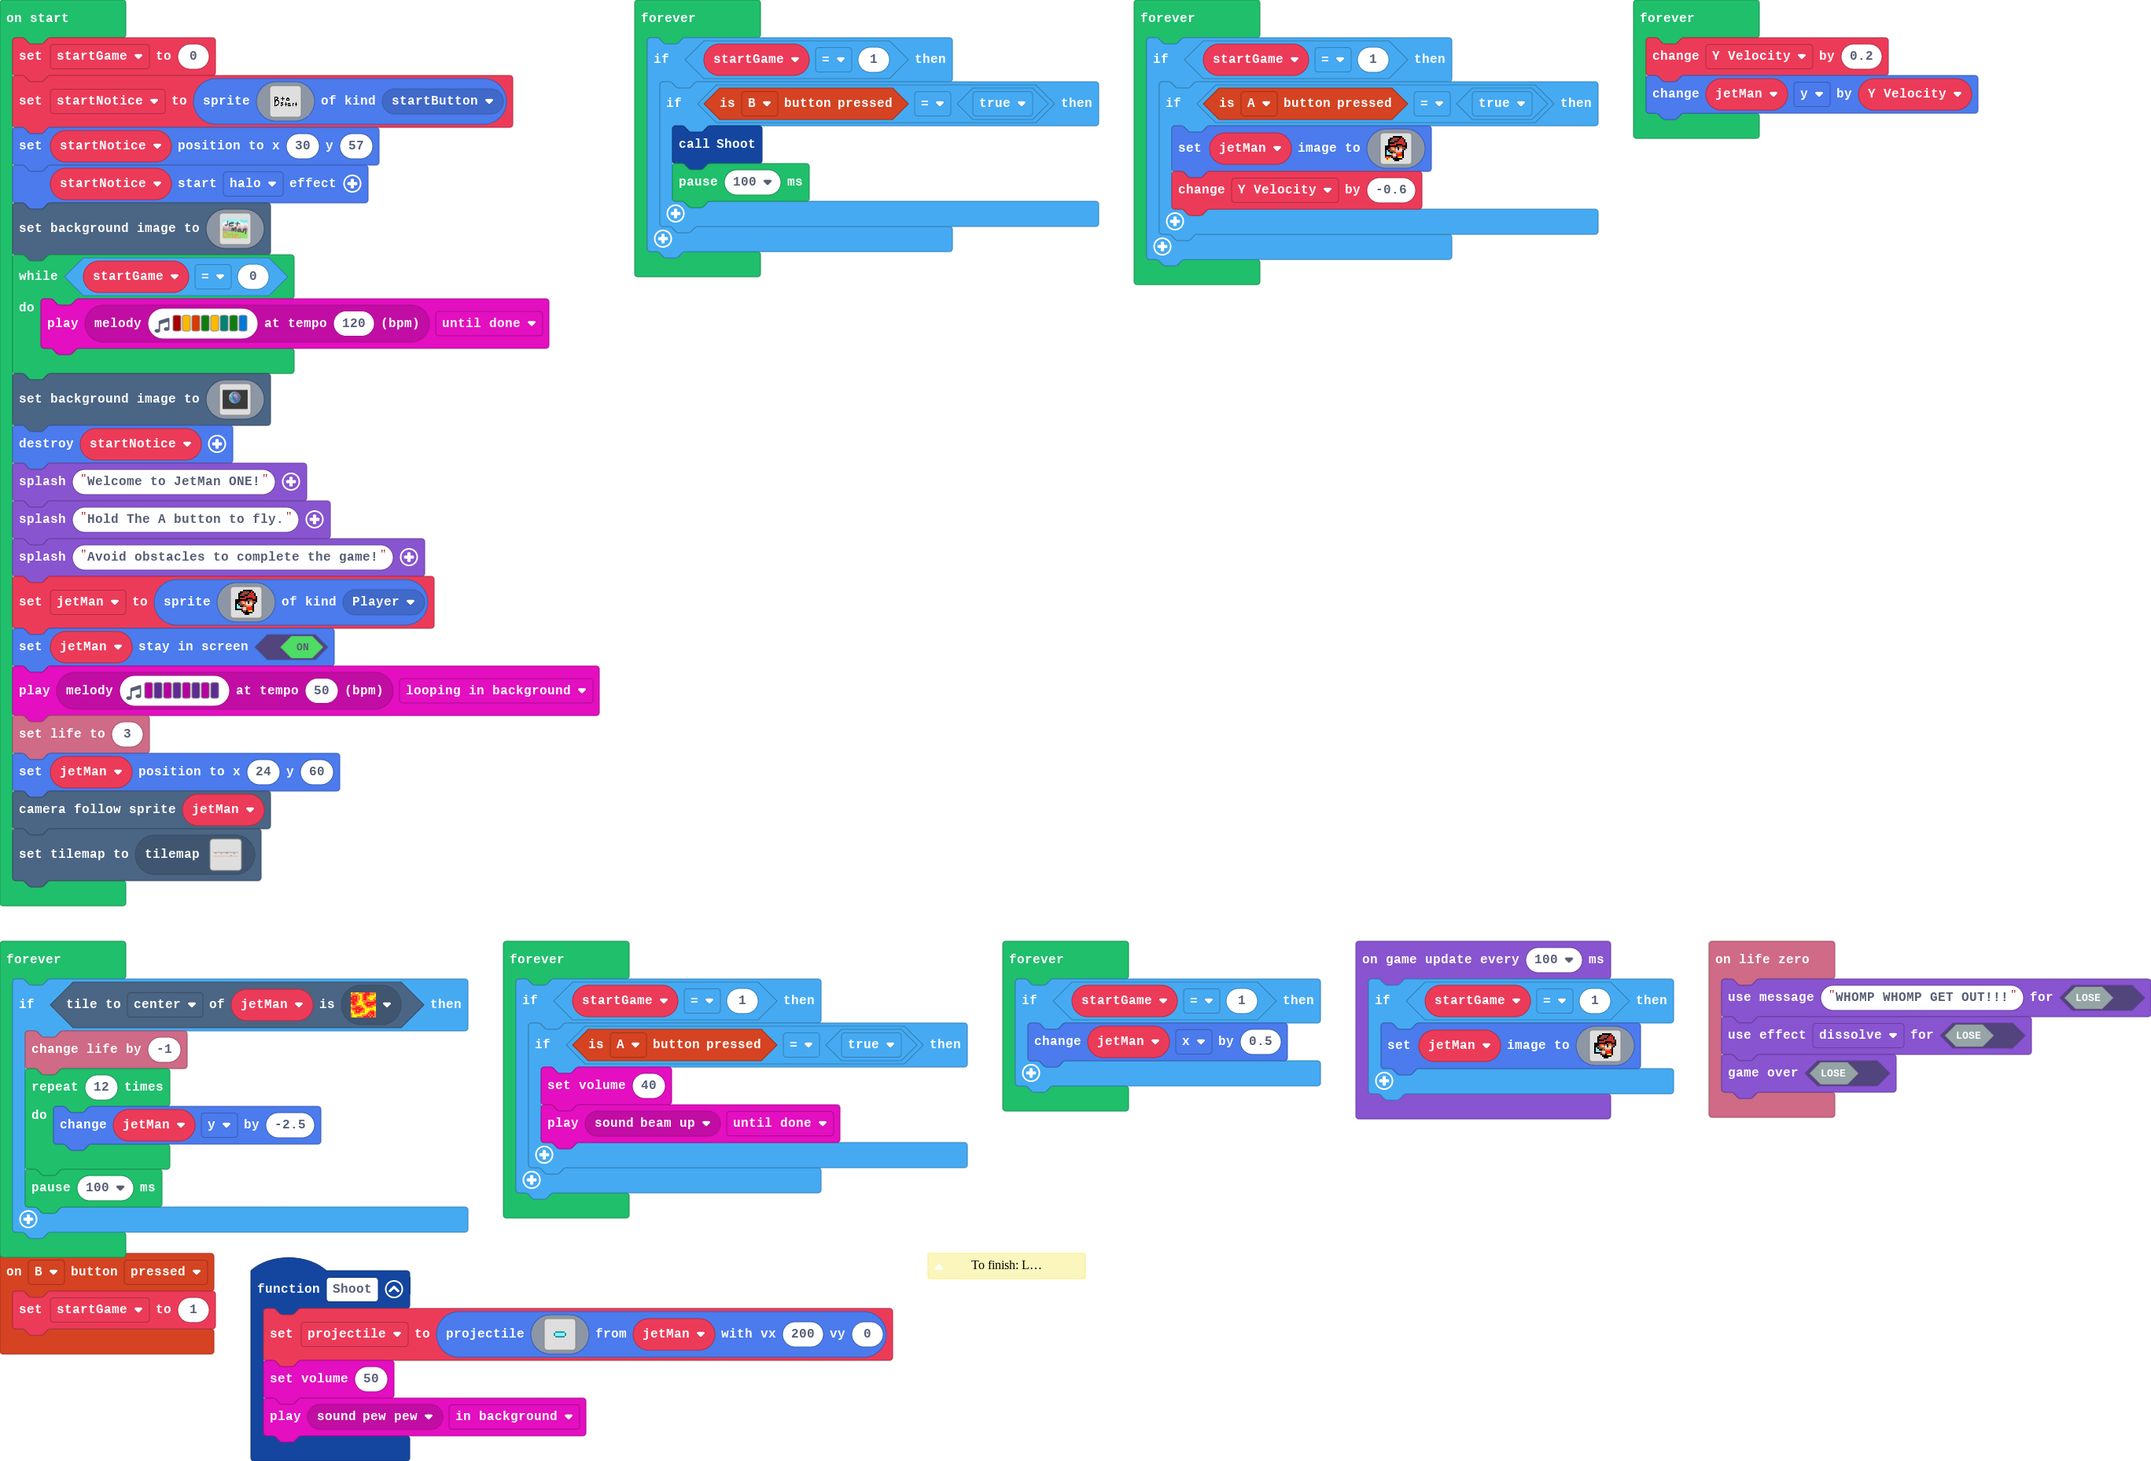
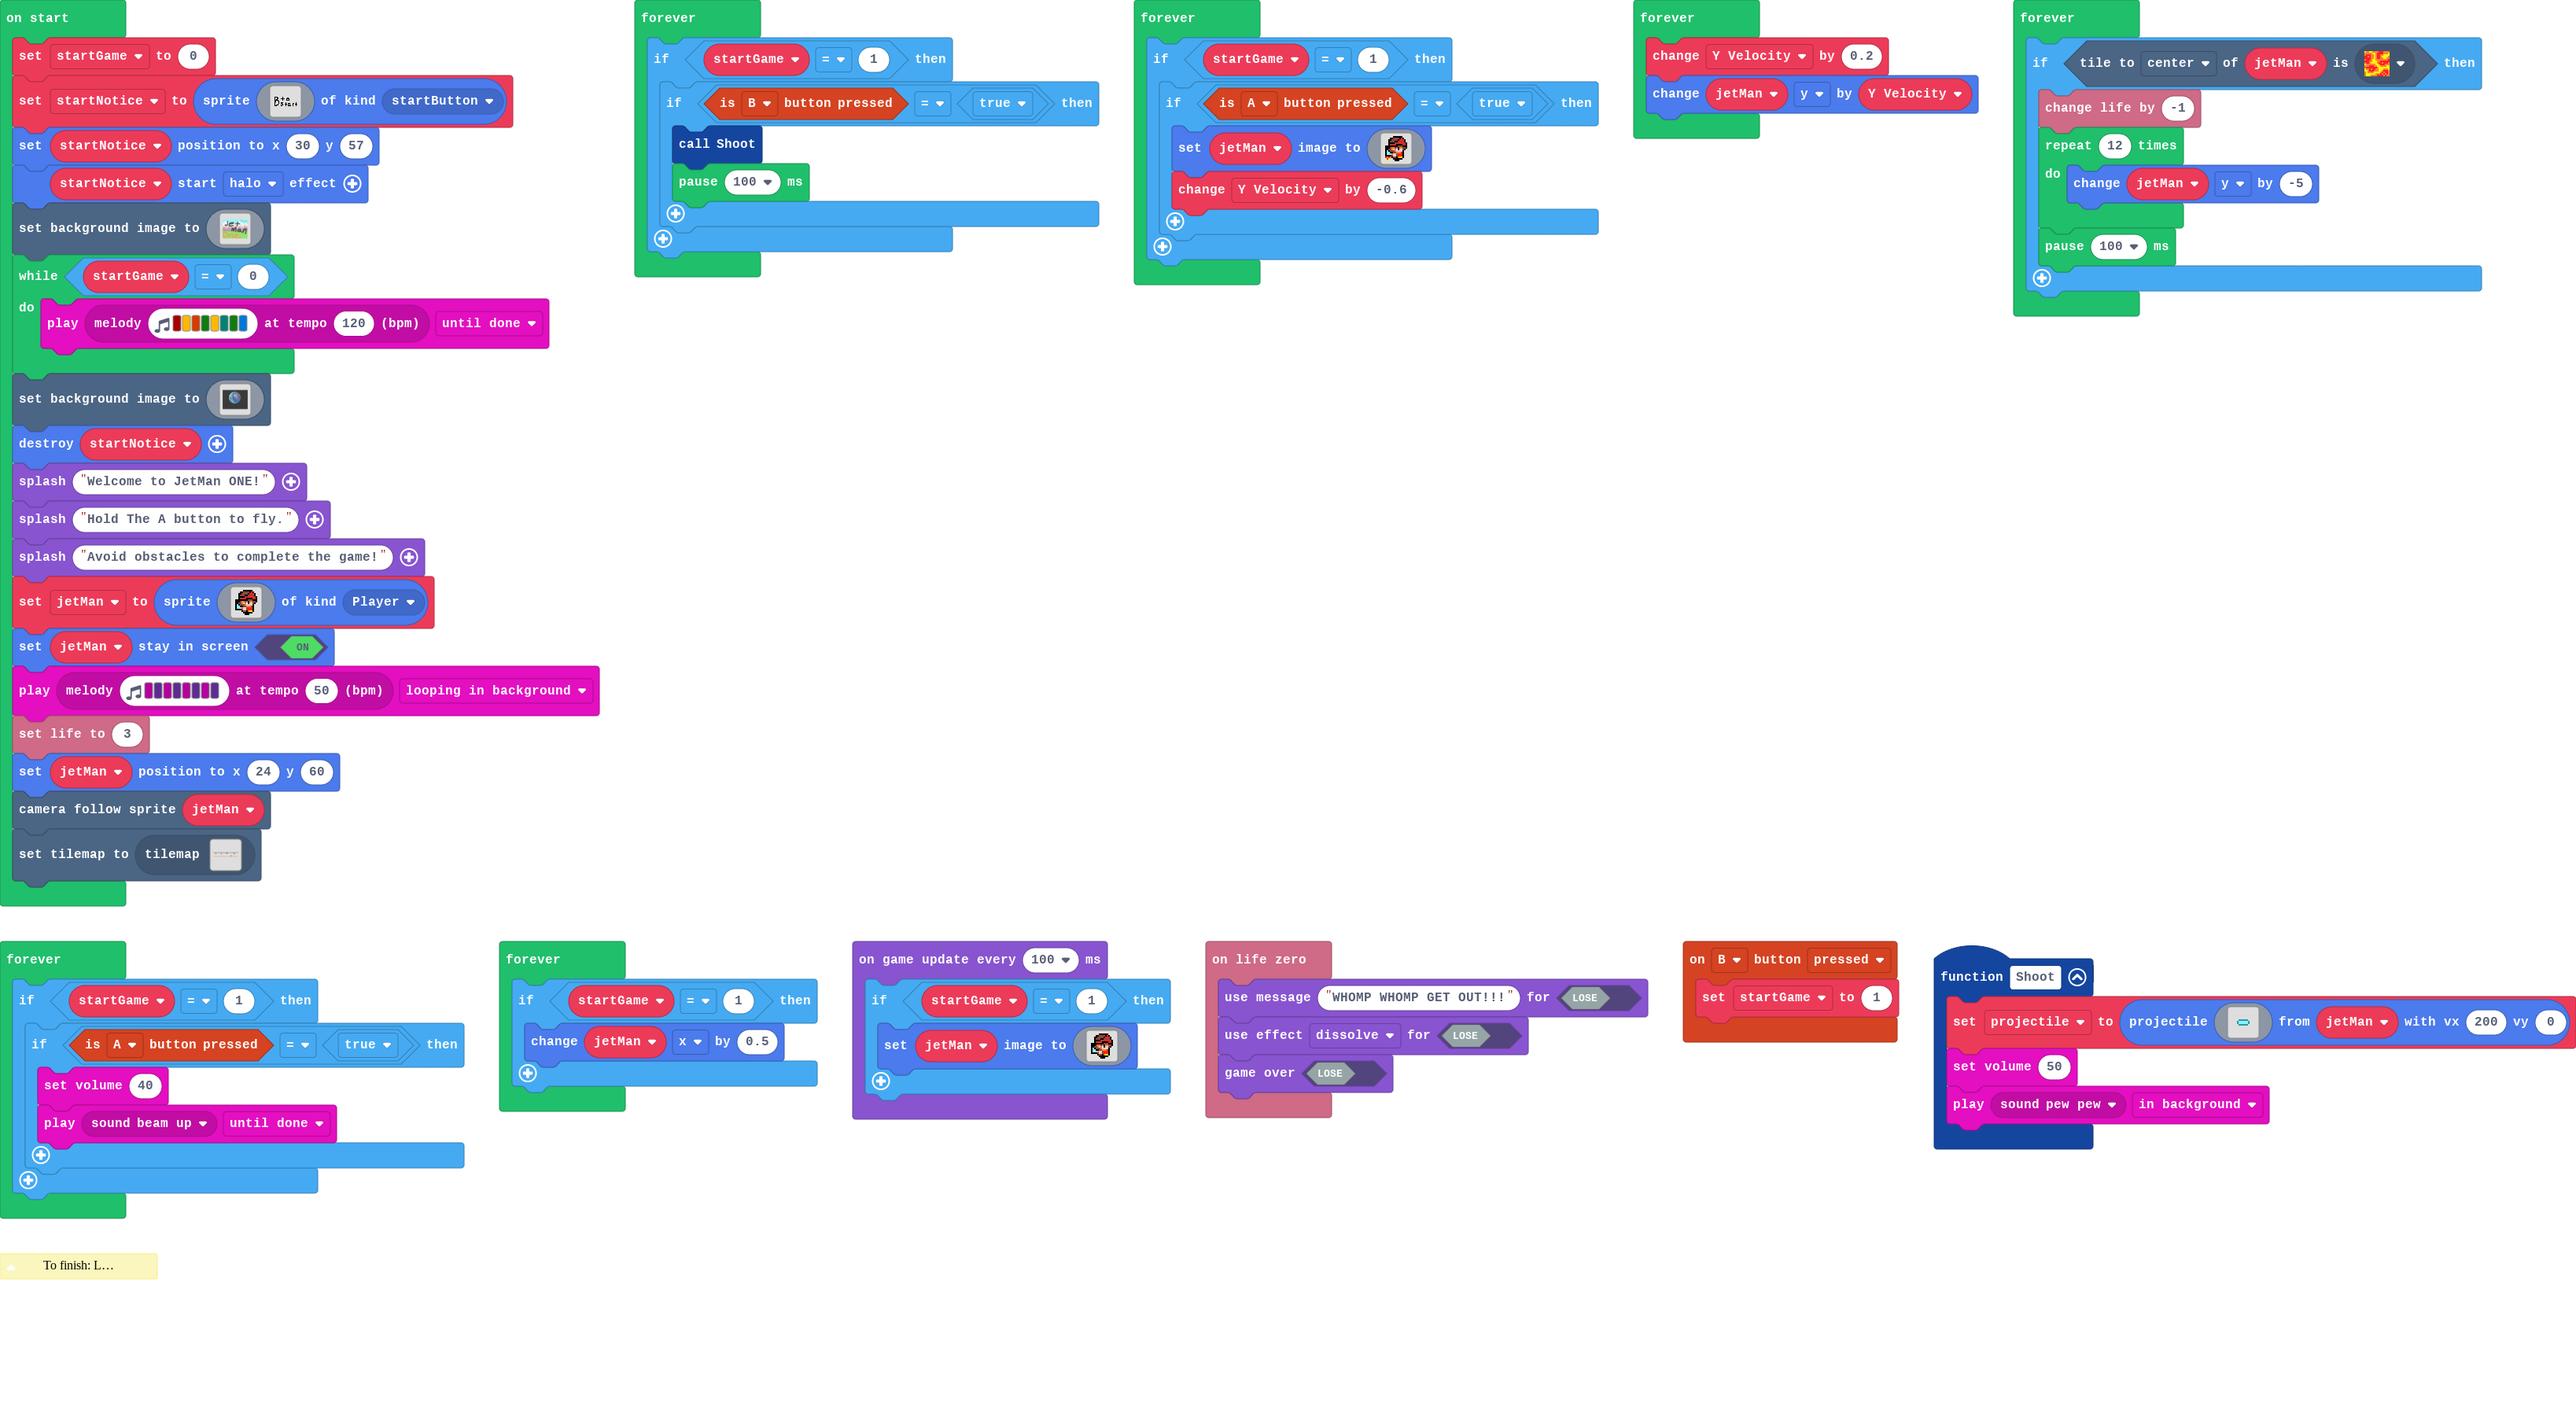
Update main.blocks, main.ts

diff --git a/main.ts b/main.ts
@@ -84,7 +84,7 @@ forever(function () {
     if (jetMan.tileKindAt(TileDirection.Center, sprites.dungeon.hazardLava1)) {
         info.changeLifeBy(-1)
         for (let index = 0; index < 12; index++) {
-            jetMan.y += -2.5
+            jetMan.y += -5
         }
         pause(100)
     }
